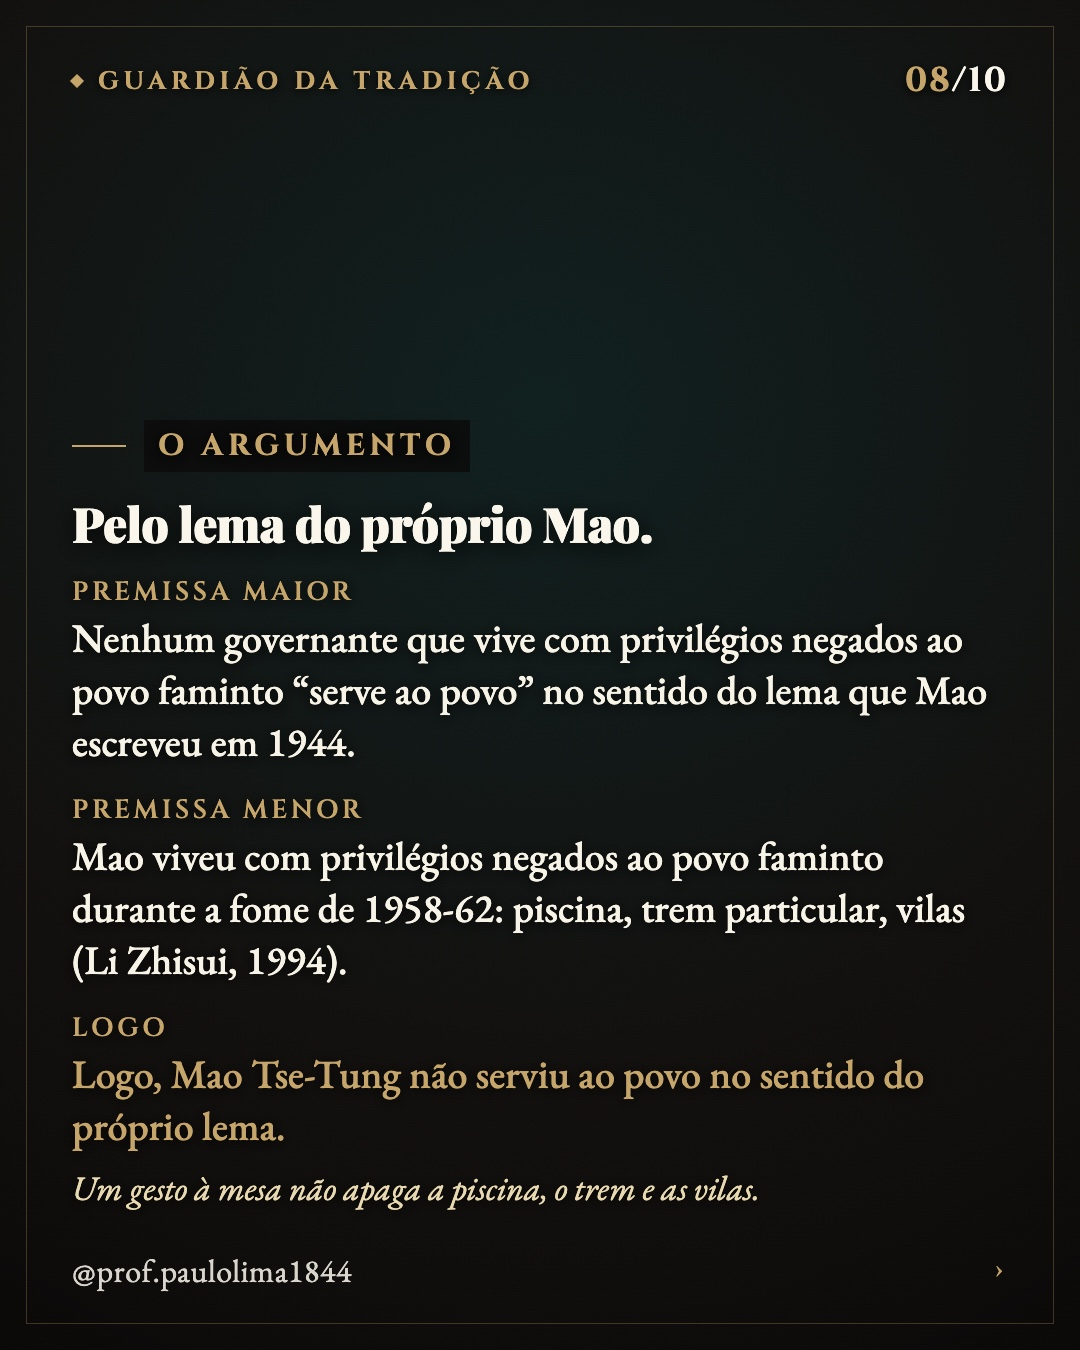
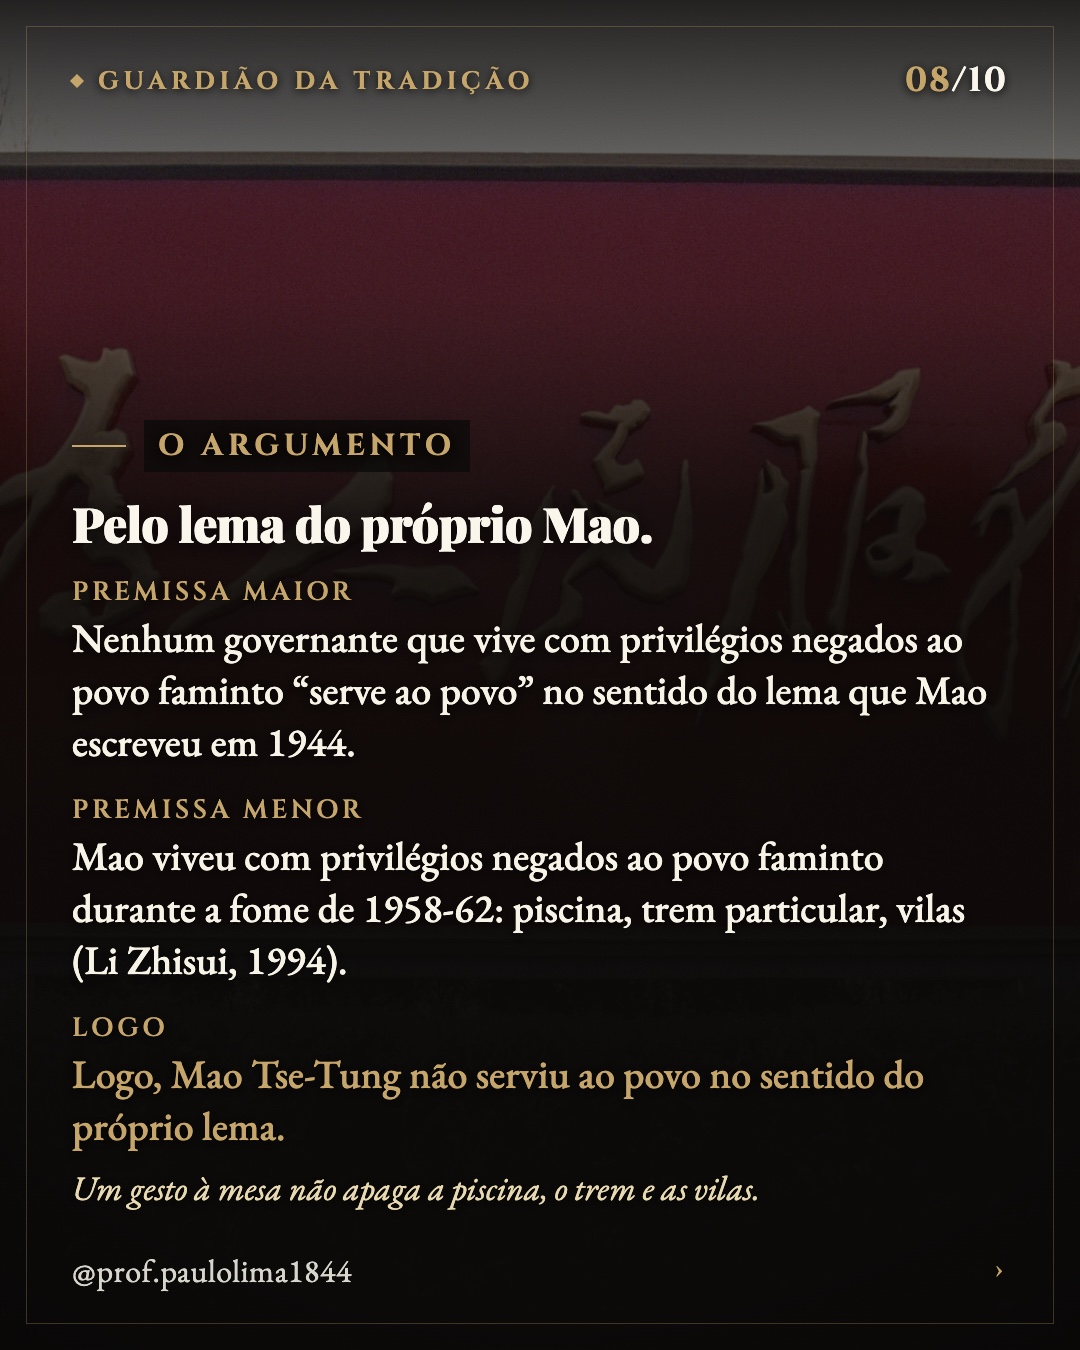
fila: G348 Smith x Che hoje 17h (Paulo); G276 com foto no slide 8

Changed region(s): [[0.0, 0.0, 1.0, 0.3733]]

diff --git a/decidir.py b/decidir.py
@@ -49,7 +49,7 @@ ESPECIAIS = {
         # 07/10/2026: Paulo pediu o carrossel da democracia (DEM1) às 19h; CPV1 segue às 20h (intervalo do dia: 55 min).
         date(2026, 10, 13): ([7.5, 11.5, 15.5, 21], timedelta(minutes=90), 4),
         date(2026, 10, 21): ([7.5, 11.5, 14, 18.5, 20.5], timedelta(minutes=90), 5),  # validado 20/10: G276 Mao, G273 Fidel, G318 Stalin, G296 Picasso, G314 Identitarismo
-        date(2026, 10, 20): ([7.5, 14, 14.25, 18.5, 20.5], timedelta(minutes=90), 5),  # G345 7h24, G333+G298 14h, G198 Livros 18h30, G315 Marx/Bolsa 20h30 (Paulo 20/10)
+        date(2026, 10, 20): ([7.5, 14, 14.25, 17, 18.5, 20.5], timedelta(minutes=90), 6),  # G348 Smith x Che 17h (Paulo); G345 7h24, G333+G298 14h, G198 Livros 18h30, G315 Marx/Bolsa 20h30 (Paulo 20/10)
         date(2026, 10, 19): ([7.5, 14, 18.5, 20.5], timedelta(minutes=90), 4),  # lote validado 18/10: G299, G322, G329, G337
         date(2026, 10, 18): ([7.5, 10, 14, 18.5], timedelta(minutes=90), 4),  # 18/10: G294 (vídeo) 07h30, G338 Obama antecipado (saiu 10h21), G280 Rivera 14h, G265 Aristóteles×Freire 18h30 (lote validado pelo Paulo 18/10)
         date(2026, 10, 17): ([7, 12, 15, 17.5, 21.25], timedelta(minutes=90), 5),  # 17/10: Paulo pediu extras às 15h e 17h30  # ULTRA_ESTRATEGIA: 07h00, 12h30, 18h00, 21h15
